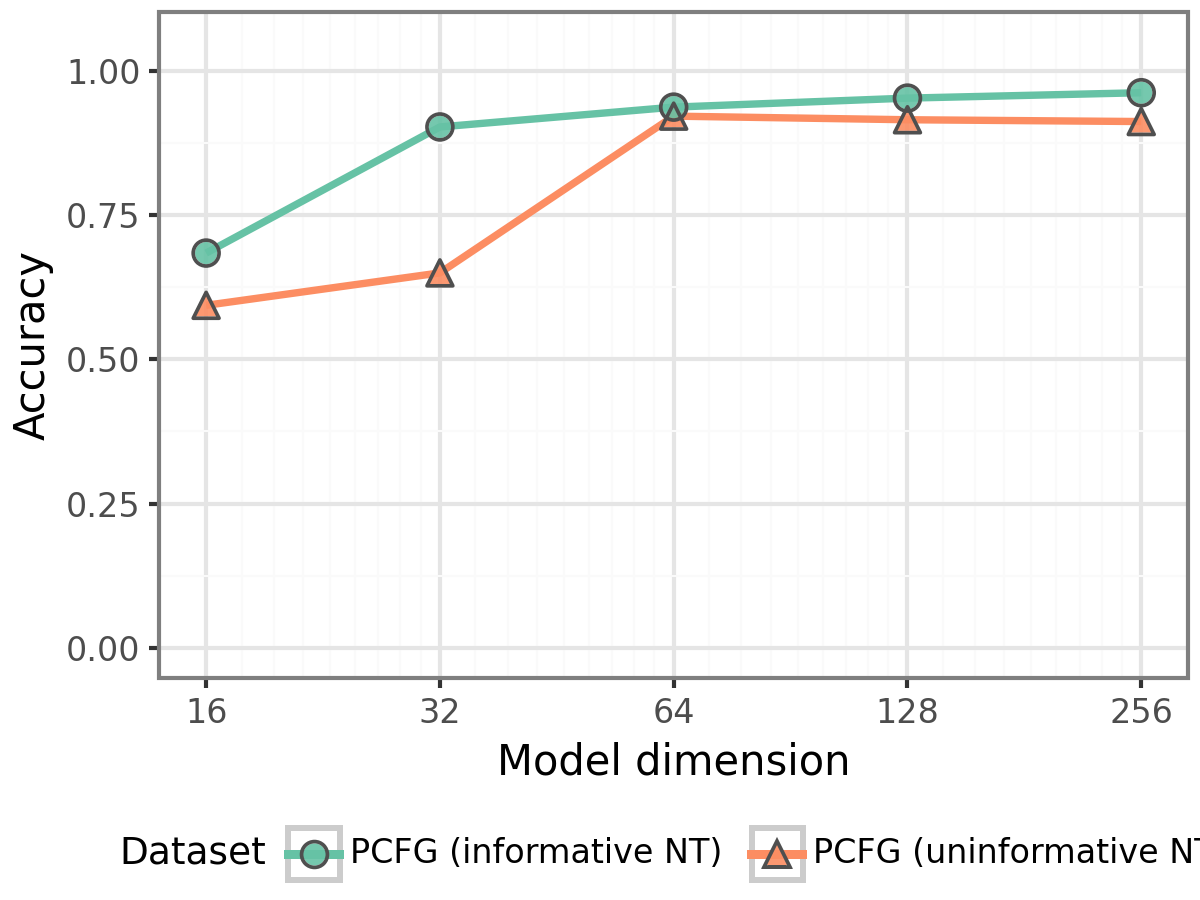
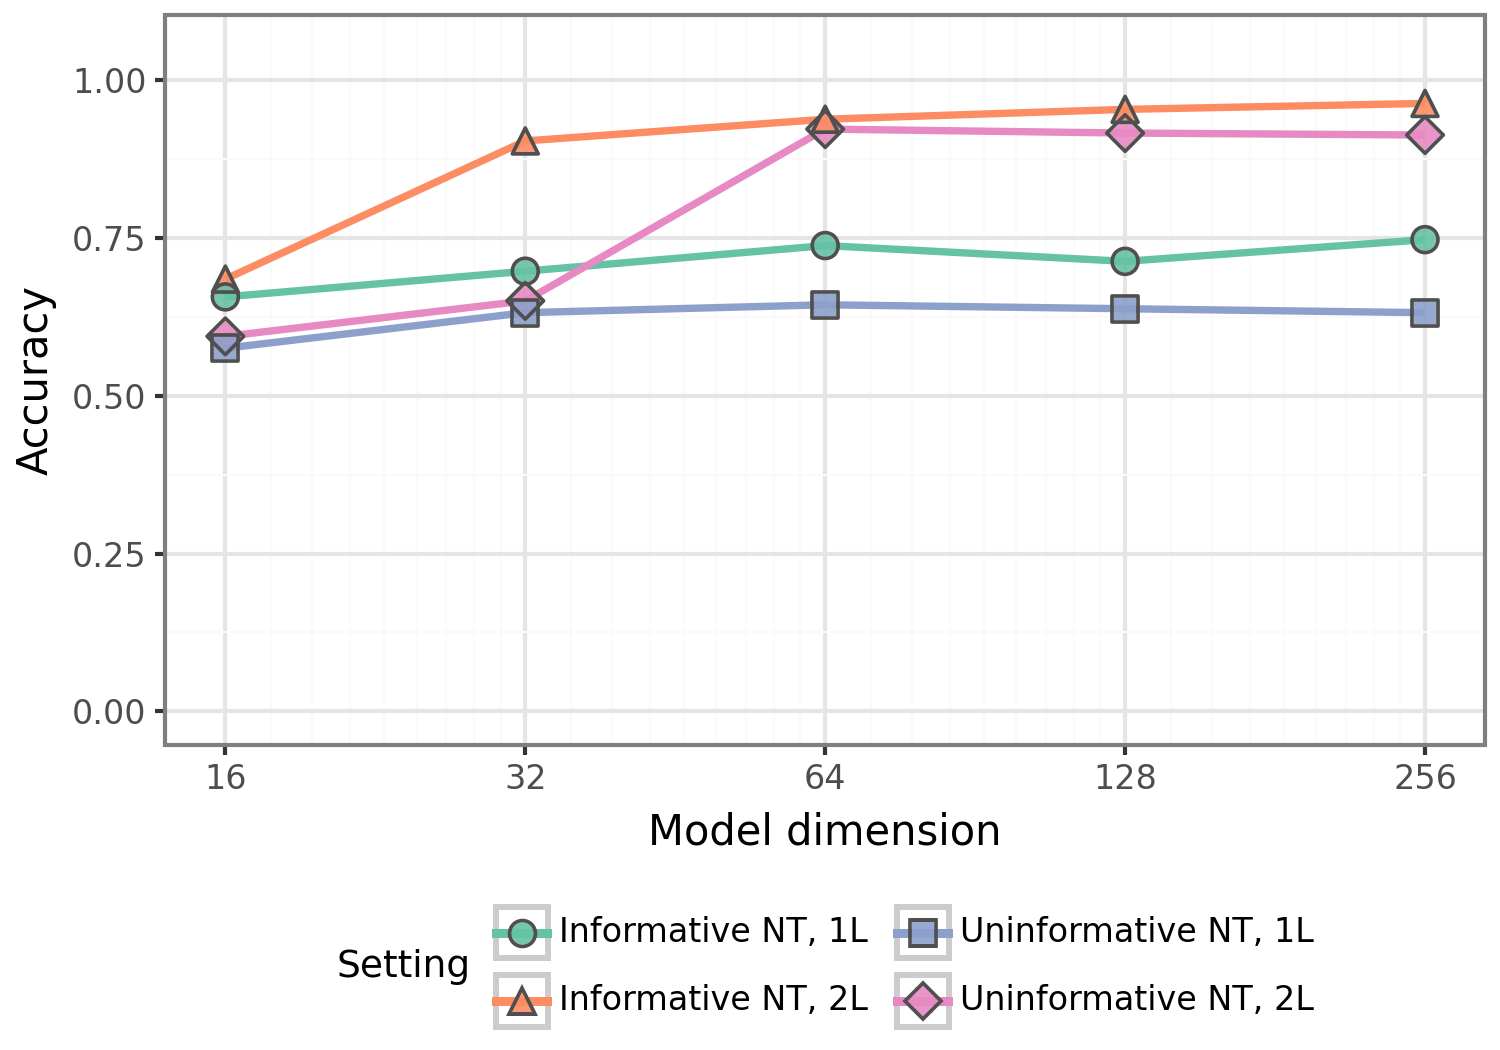
compare answer position distributions for rhs=5 vs rhs=10

Changed region(s): [[0.0, 0.0, 1.0, 0.9956]]

diff --git a/scripts/plot_length_vs_anspos.py b/scripts/plot_length_vs_anspos.py
@@ -1,8 +1,9 @@
-"""Heatmap of yield length vs answer position in the yield."""
+"""Heatmap of yield length vs answer position in the yield, comparing configs."""
 
 import numpy as np
 import pandas as pd
 import plotnine as p9
+import os
 
 import sys
 sys.path.insert(0, ".")
@@ -18,88 +19,79 @@ p9.theme_set(
     )
 )
 
-lang = PCFG(
-    num_terminals=20,
-    num_nonterminals=40,
-    max_rhs_len=5,
-    max_rules_per_nt=5,
-    max_depth=10,
-    head_position="right",
-    mask_nonquery=True,
-    no_child_queries=True,
-    no_sibling_queries=True,
-    uninformative_nonterminals=True,
-    unambiguous_queries=True,
-    prepare_train_set=True,
-)
+configs = {
+    "rhs=5": dict(max_rhs_len=5),
+    "rhs=10": dict(max_rhs_len=10),
+}
 
-rows = []
-for _ in range(20000):
-    tokens, probing_schema = lang.sample(split="train")
-    divider_pos = probing_schema["queries"]["divider"]["pos"]
-    t_orig_pos = probing_schema["queries"]["target_item_orig"]["pos"]
-    yield_len = divider_pos - 1  # tokens[1] to tokens[divider_pos-1]
-    # answer position as fraction of yield length (0 = leftmost, 1 = rightmost)
-    ans_rel = (t_orig_pos - 1) / (yield_len - 1) if yield_len > 1 else 0.5
-    rows.append({
-        "yield_len": yield_len,
-        "ans_pos": t_orig_pos - 1,  # 0-indexed within yield
-        "ans_rel": ans_rel,
-    })
+all_rows = []
+for config_name, overrides in configs.items():
+    print(f"\n{'='*60}")
+    print(f"Config: {config_name}")
 
-df = pd.DataFrame(rows)
+    kwargs = dict(
+        num_terminals=20,
+        num_nonterminals=40,
+        max_rhs_len=5,
+        max_rules_per_nt=5,
+        max_depth=10,
+        head_position="right",
+        mask_nonquery=True,
+        no_child_queries=True,
+        no_sibling_queries=True,
+        uninformative_nonterminals=True,
+        unambiguous_queries=True,
+        prepare_train_set=True,
+    )
+    kwargs.update(overrides)
+    lang = PCFG(**kwargs)
 
-import os
+    for _ in range(20000):
+        tokens, probing_schema = lang.sample(split="train")
+        divider_pos = probing_schema["queries"]["divider"]["pos"]
+        t_orig_pos = probing_schema["queries"]["target_item_orig"]["pos"]
+        yield_len = divider_pos - 1
+        ans_rel = (t_orig_pos - 1) / (yield_len - 1) if yield_len > 1 else 0.5
+        all_rows.append({
+            "config": config_name,
+            "yield_len": yield_len,
+            "ans_pos": t_orig_pos - 1,
+            "ans_rel": ans_rel,
+        })
+
+    subset = [r for r in all_rows if r["config"] == config_name]
+    sub_df = pd.DataFrame(subset)
+    print(f"  Mean relative answer position: {sub_df['ans_rel'].mean():.3f}")
+    print(f"  Fraction at rightmost: {(sub_df['ans_pos'] == sub_df['yield_len'] - 1).mean():.3f}")
+    print(f"  Fraction in last 10%: {(sub_df['ans_rel'] >= 0.9).mean():.3f}")
+    print(f"  Mean yield length: {sub_df['yield_len'].mean():.1f}")
+
+df = pd.DataFrame(all_rows)
 os.makedirs("scripts/figs", exist_ok=True)
 
-# Heatmap: yield_len vs ans_pos (absolute)
-# Bin yield lengths
-df["len_bin"] = pd.cut(df["yield_len"], bins=range(0, df["yield_len"].max() + 5, 5), right=False)
-heatmap_df = df.groupby(["yield_len", "ans_pos"]).size().reset_index(name="count")
+# Combined histogram of relative answer positions
+plot = (
+    p9.ggplot(df, p9.aes(x="ans_rel", fill="config")) +
+    p9.geom_histogram(bins=30, alpha=0.7, position="dodge") +
+    p9.labs(x="Relative answer position (0=left, 1=right)", y="Count",
+            title="Answer position distribution", fill="Config") +
+    p9.theme(figure_size=(6, 3))
+)
+plot.save("scripts/figs/pcfg_anspos_hist_compare.png", dpi=300, limitsize=False)
+print("\nSaved pcfg_anspos_hist_compare")
 
+# Faceted heatmap: yield_len vs ans_pos
+heatmap_df = df.groupby(["config", "yield_len", "ans_pos"]).size().reset_index(name="count")
 plot = (
     p9.ggplot(heatmap_df, p9.aes(x="ans_pos", y="yield_len", fill="count")) +
     p9.geom_tile() +
     p9.scale_fill_cmap("viridis") +
+    p9.facet_wrap("~config", nrow=1) +
     p9.labs(x="Answer position in yield (0-indexed)", y="Yield length", fill="Count",
             title="Yield length vs answer position") +
-    p9.theme(figure_size=(8, 6))
+    p9.theme(figure_size=(12, 5))
 )
-plot.save("scripts/figs/pcfg_length_vs_anspos.png", dpi=300, limitsize=False)
-print("Saved pcfg_length_vs_anspos")
-
-# Heatmap: yield_len vs relative answer position
-df["ans_rel_bin"] = pd.cut(df["ans_rel"], bins=np.linspace(0, 1, 21))
-heatmap_rel = df.groupby(["yield_len", "ans_rel_bin"]).size().reset_index(name="count")
-heatmap_rel["ans_rel_mid"] = heatmap_rel["ans_rel_bin"].apply(lambda x: x.mid if pd.notna(x) else None)
-heatmap_rel = heatmap_rel.dropna()
-
-plot = (
-    p9.ggplot(heatmap_rel, p9.aes(x="ans_rel_mid", y="yield_len", fill="count")) +
-    p9.geom_tile() +
-    p9.scale_fill_cmap("viridis") +
-    p9.labs(x="Relative answer position (0=left, 1=right)", y="Yield length", fill="Count",
-            title="Yield length vs relative answer position") +
-    p9.theme(figure_size=(8, 6))
-)
-plot.save("scripts/figs/pcfg_length_vs_anspos_rel.png", dpi=300, limitsize=False)
-print("Saved pcfg_length_vs_anspos_rel")
-
-# Also just a histogram of relative answer positions
-plot = (
-    p9.ggplot(df, p9.aes(x="ans_rel")) +
-    p9.geom_histogram(bins=30, fill="#66c2a5") +
-    p9.labs(x="Relative answer position (0=left, 1=right)", y="Count",
-            title="Distribution of answer positions") +
-    p9.theme(figure_size=(6, 3))
-)
-plot.save("scripts/figs/pcfg_anspos_hist.png", dpi=300, limitsize=False)
-print("Saved pcfg_anspos_hist")
-
-# Stats
-print(f"\nMean relative answer position: {df['ans_rel'].mean():.3f}")
-print(f"Fraction of answers at rightmost position: {(df['ans_pos'] == df['yield_len'] - 1).mean():.3f}")
-print(f"Fraction of answers in last 10% of yield: {(df['ans_rel'] >= 0.9).mean():.3f}")
-print(f"Mean yield length: {df['yield_len'].mean():.1f}")
+plot.save("scripts/figs/pcfg_length_vs_anspos_compare.png", dpi=300, limitsize=False)
+print("Saved pcfg_length_vs_anspos_compare")
 
 print("\nDone!")
